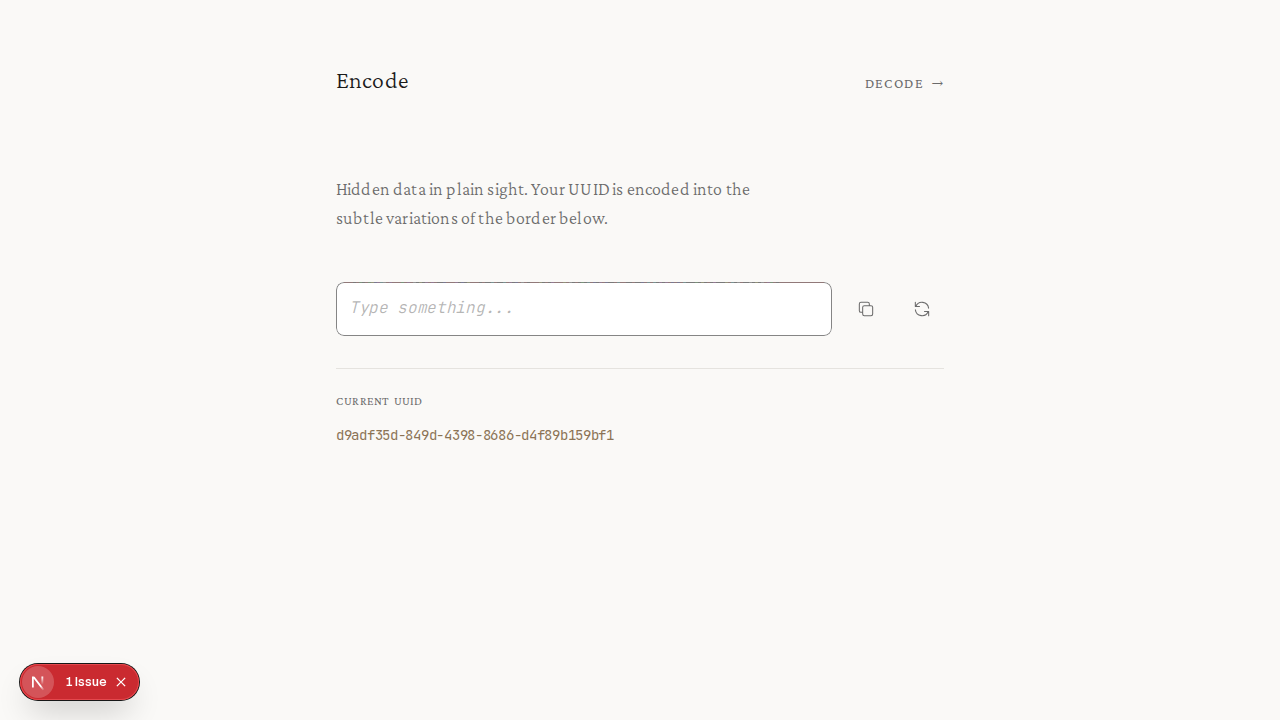
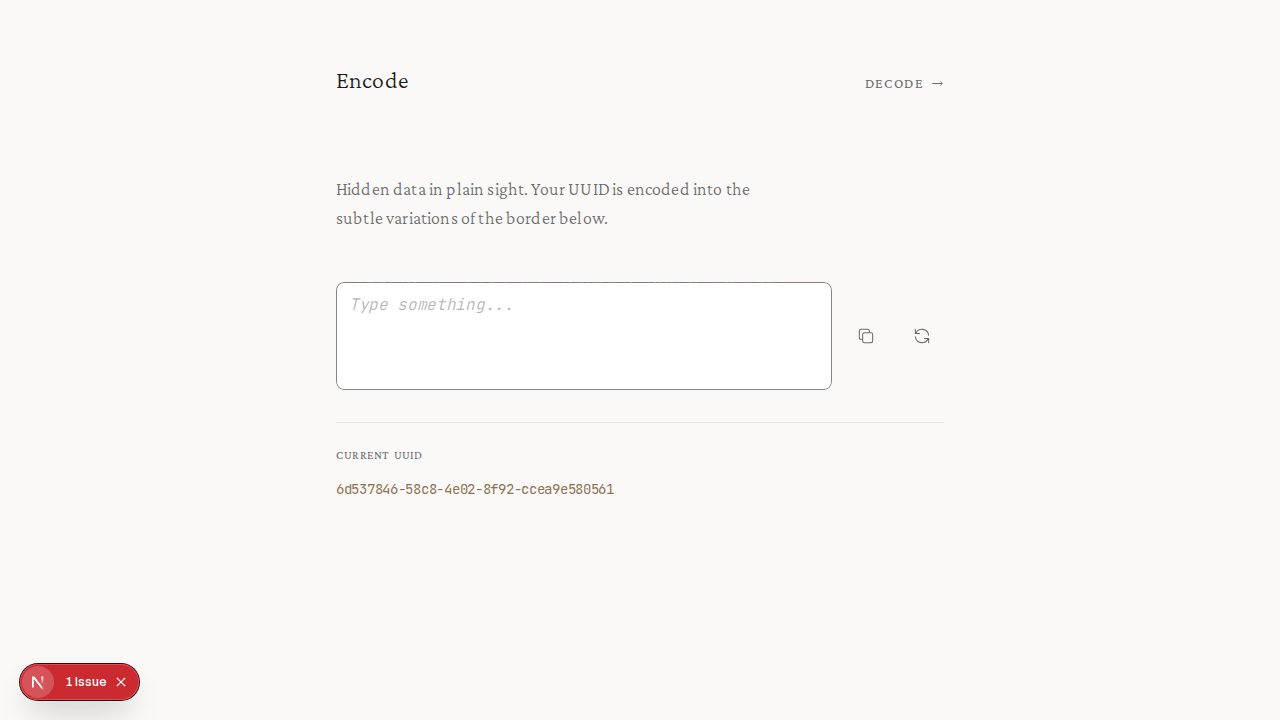
Refactor UUIDInput to textarea and add multiline test

diff --git a/src/components/UUIDInput.tsx b/src/components/UUIDInput.tsx
@@ -151,7 +151,7 @@ export function UUIDInput({
         ref={containerRef}
         className="relative flex-1 bg-[var(--surface)]"
         style={{ 
-          minHeight: `${52 + BORDER_WIDTH * 2}px`,
+          minHeight: `${100 + BORDER_WIDTH * 2}px`,
           borderRadius: `${BORDER_RADIUS}px`,
         }}
       >
@@ -171,18 +171,17 @@ export function UUIDInput({
           }}
         />
         
-        {/* Actual input */}
-        <input
-          type="text"
+        {/* Actual textarea */}
+        <textarea
           value={inputValue}
           onChange={(e) => setInputValue(e.target.value)}
           placeholder={placeholder}
-          className="w-full h-full px-4 py-2 bg-transparent outline-none mono placeholder:text-[var(--muted)]/50 placeholder:font-light placeholder:italic tracking-wide"
+          className="w-full h-full px-4 py-2 bg-transparent outline-none mono placeholder:text-[var(--muted)]/50 placeholder:font-light placeholder:italic tracking-wide resize-none"
           style={{
             fontSize: '1rem',
             margin: `${BORDER_WIDTH}px`,
             width: `calc(100% - ${BORDER_WIDTH * 2}px)`,
-            height: '50px',
+            minHeight: '98px',
             borderRadius: `${BORDER_RADIUS - BORDER_WIDTH}px`,
             paddingLeft: `${BORDER_RADIUS + 4}px`,
             paddingRight: `${BORDER_RADIUS + 4}px`,

diff --git a/test-multiline.ts b/test-multiline.ts
@@ -1,0 +1,40 @@
+import { chromium } from 'playwright';
+
+async function testMultilineInput() {
+  const browser = await chromium.launch({ headless: true });
+  const page = await browser.newPage();
+  
+  // Navigate to the app
+  await page.goto('http://localhost:3000');
+  await page.waitForTimeout(2000);
+  
+  // Find the text input/textarea
+  const textarea = await page.locator('textarea').first();
+  
+  // Click into the textarea
+  await textarea.click();
+  await page.waitForTimeout(500);
+  
+  // Clear any existing text
+  await textarea.fill('');
+  
+  // Type realistic multi-line content
+  await textarea.type('Hello world!');
+  await page.keyboard.press('Enter');
+  await textarea.type('This is a multi-line input.');
+  await page.keyboard.press('Enter');
+  await textarea.type('You can press Enter to create new lines.');
+  await page.keyboard.press('Enter');
+  await textarea.type('The encoded border wraps around the entire textarea.');
+  
+  await page.waitForTimeout(1000);
+  
+  // Take final demo screenshot
+  await page.screenshot({ path: '/workspace/test-artifacts/multiline-demo-final.png', fullPage: true });
+  console.log('Final demo screenshot saved');
+  
+  await browser.close();
+  console.log('Test completed!');
+}
+
+testMultilineInput().catch(console.error);
